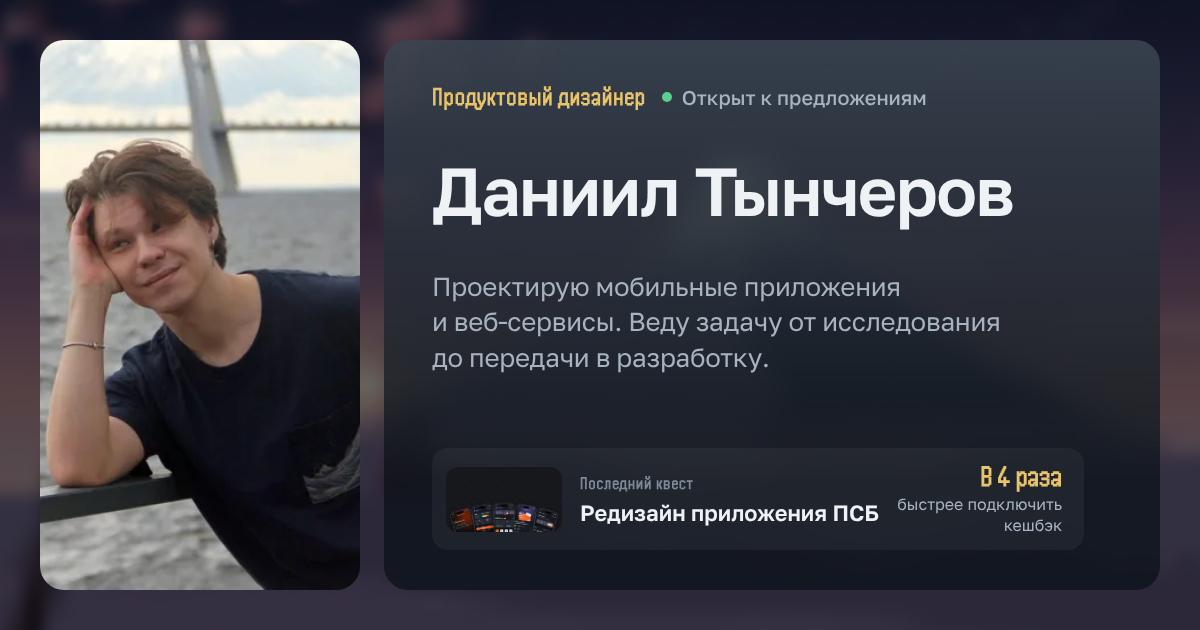
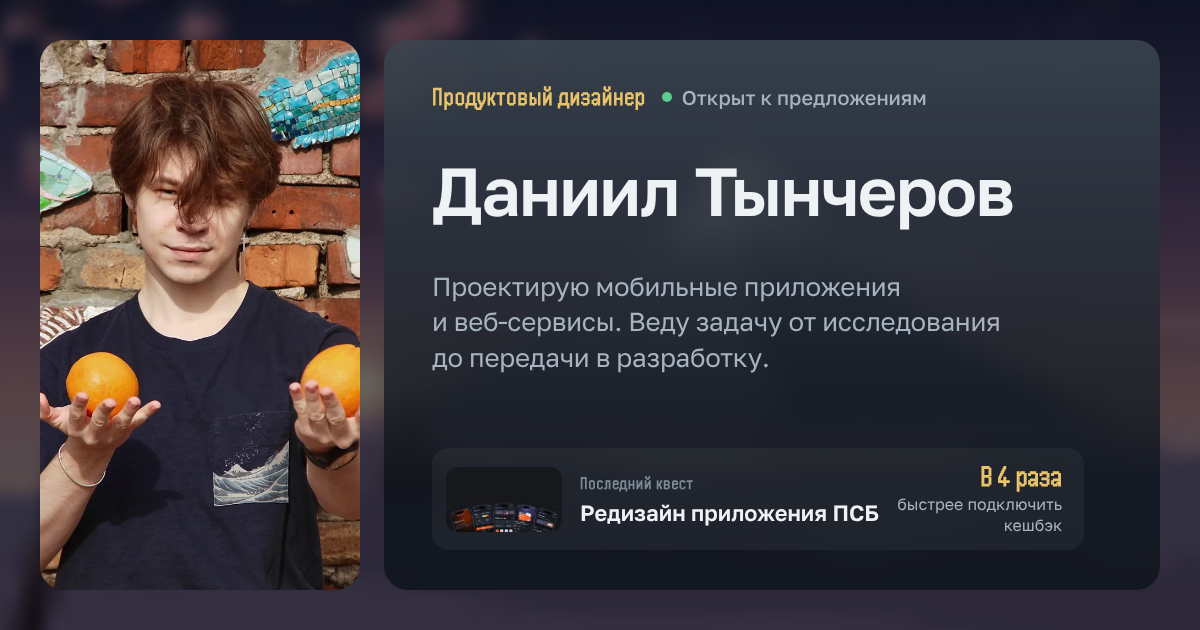
feat: a new portrait, with the oranges by the mosaic wall
Square crop around the face and the oranges, the hard sun softened, the brick a little quieter and
the edges settled into the dark glass. The link preview is drawn again with it.

Claude-Session: https://claude.ai/code/session_01WDjvAjC9ywiWrAWpVS4hfm

Changed region(s): [[0.0308, 0.0603, 0.3083, 0.9349]]

diff --git a/sketches/pause.html b/sketches/pause.html
@@ -1103,7 +1103,7 @@
     width: 100%;
     aspect-ratio: 5 / 4;
     object-fit: cover;
-    object-position: 30% 40%;
+    object-position: 50% 30%;
     display: block;
   }
   @media (min-width: 861px) and (min-height: 600px) {

diff --git a/tools/og/og.css b/tools/og/og.css
@@ -28,7 +28,7 @@
   width: 100%;
   height: 100%;
   object-fit: cover;
-  object-position: 40% 30%;
+  object-position: 50% 30%;
 }
 .og .card {
   display: flex;
